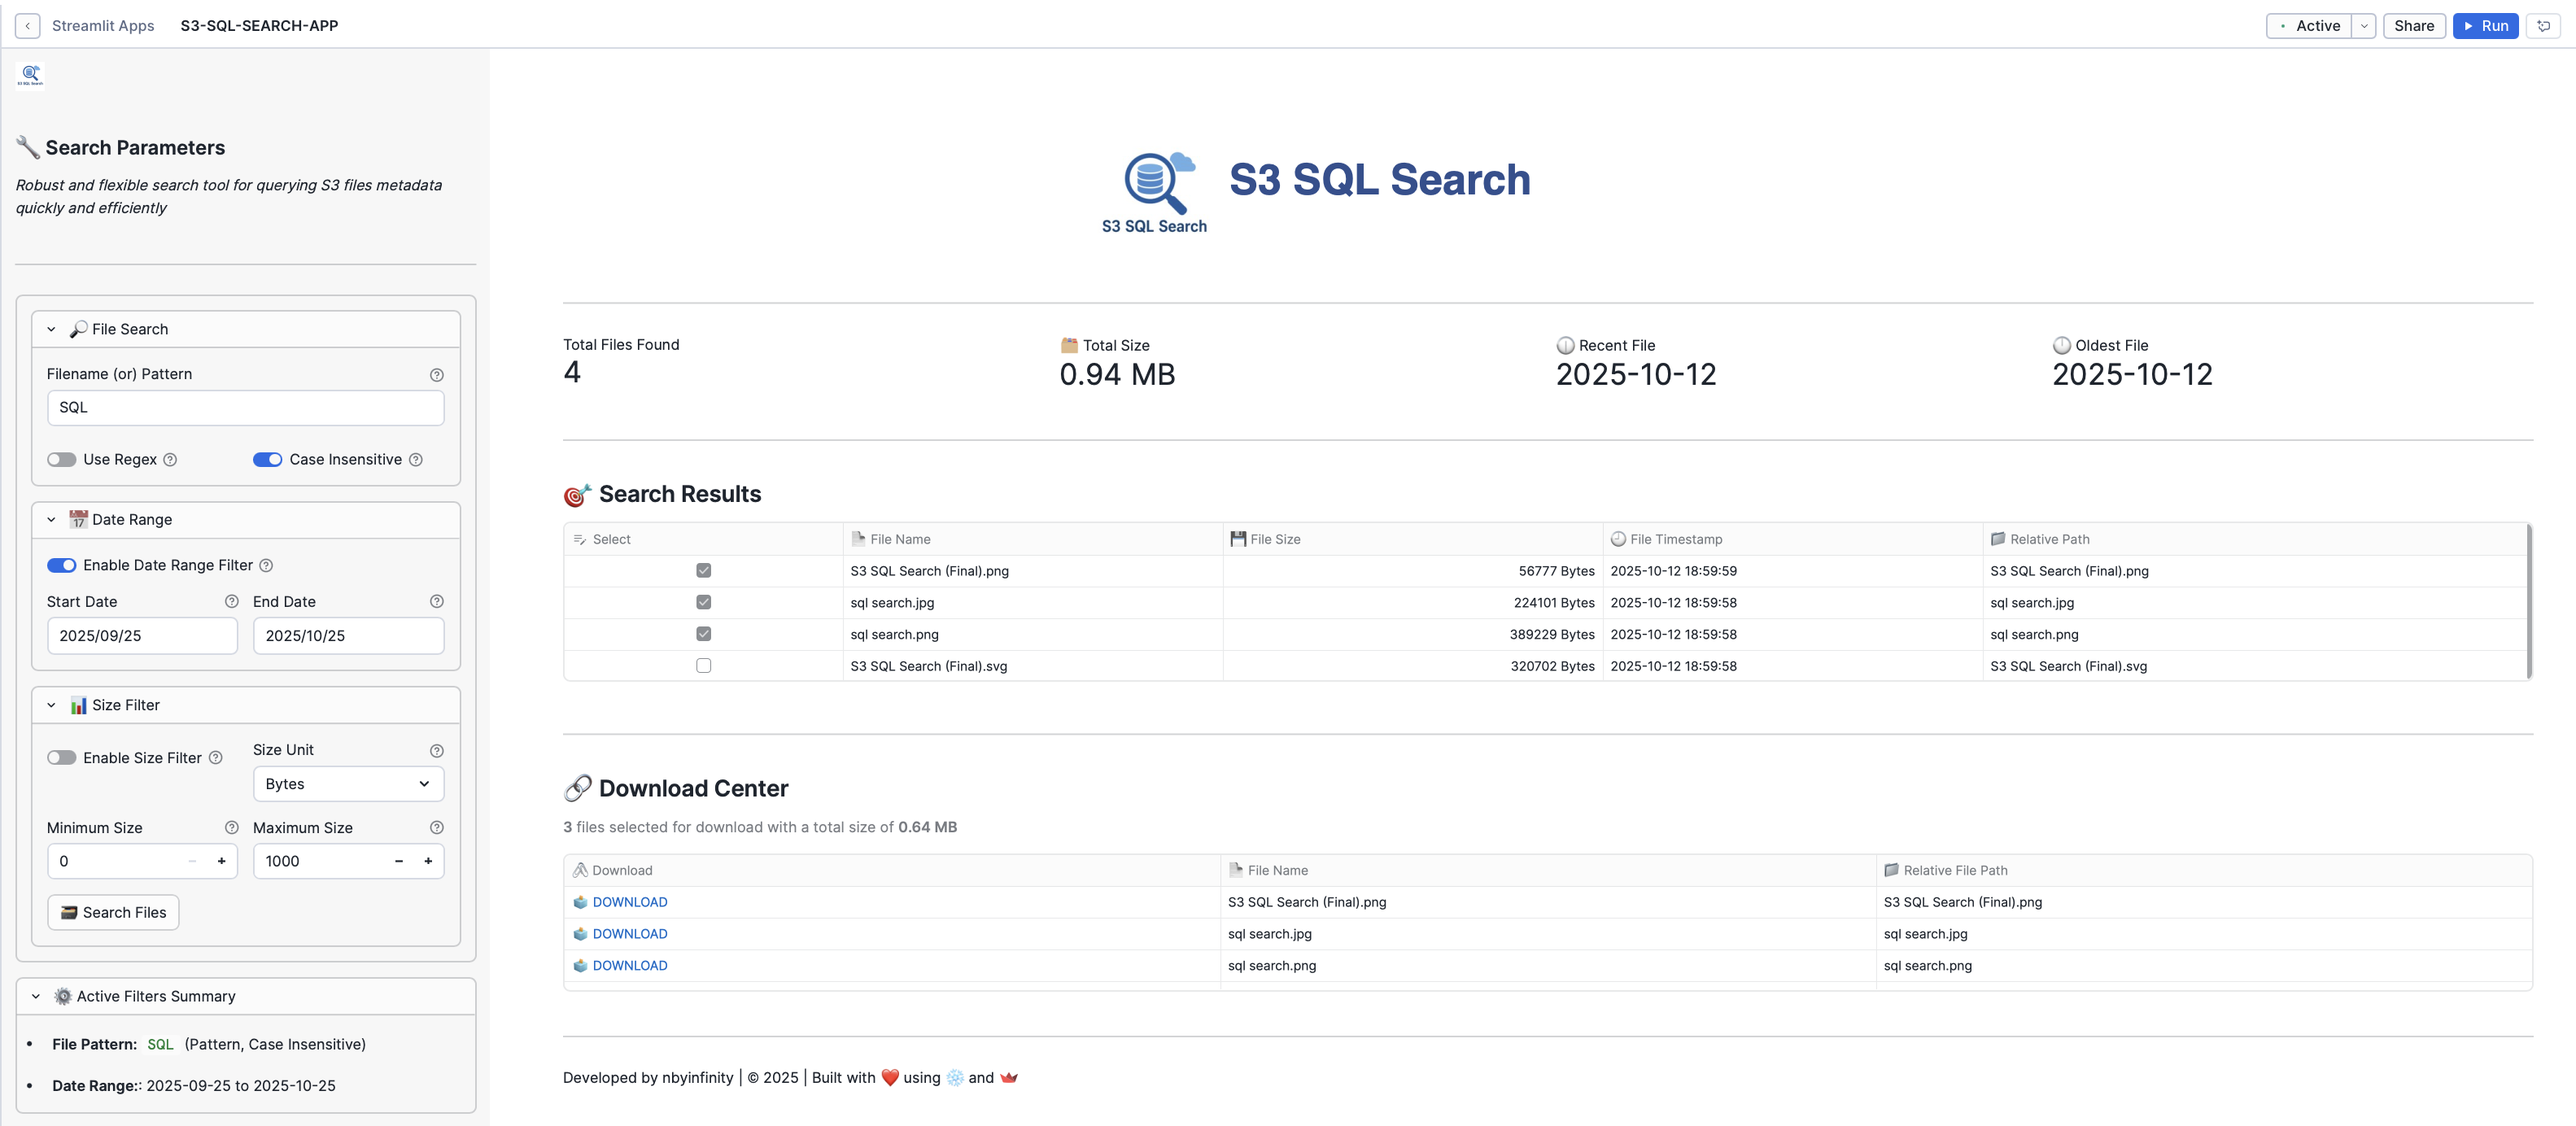
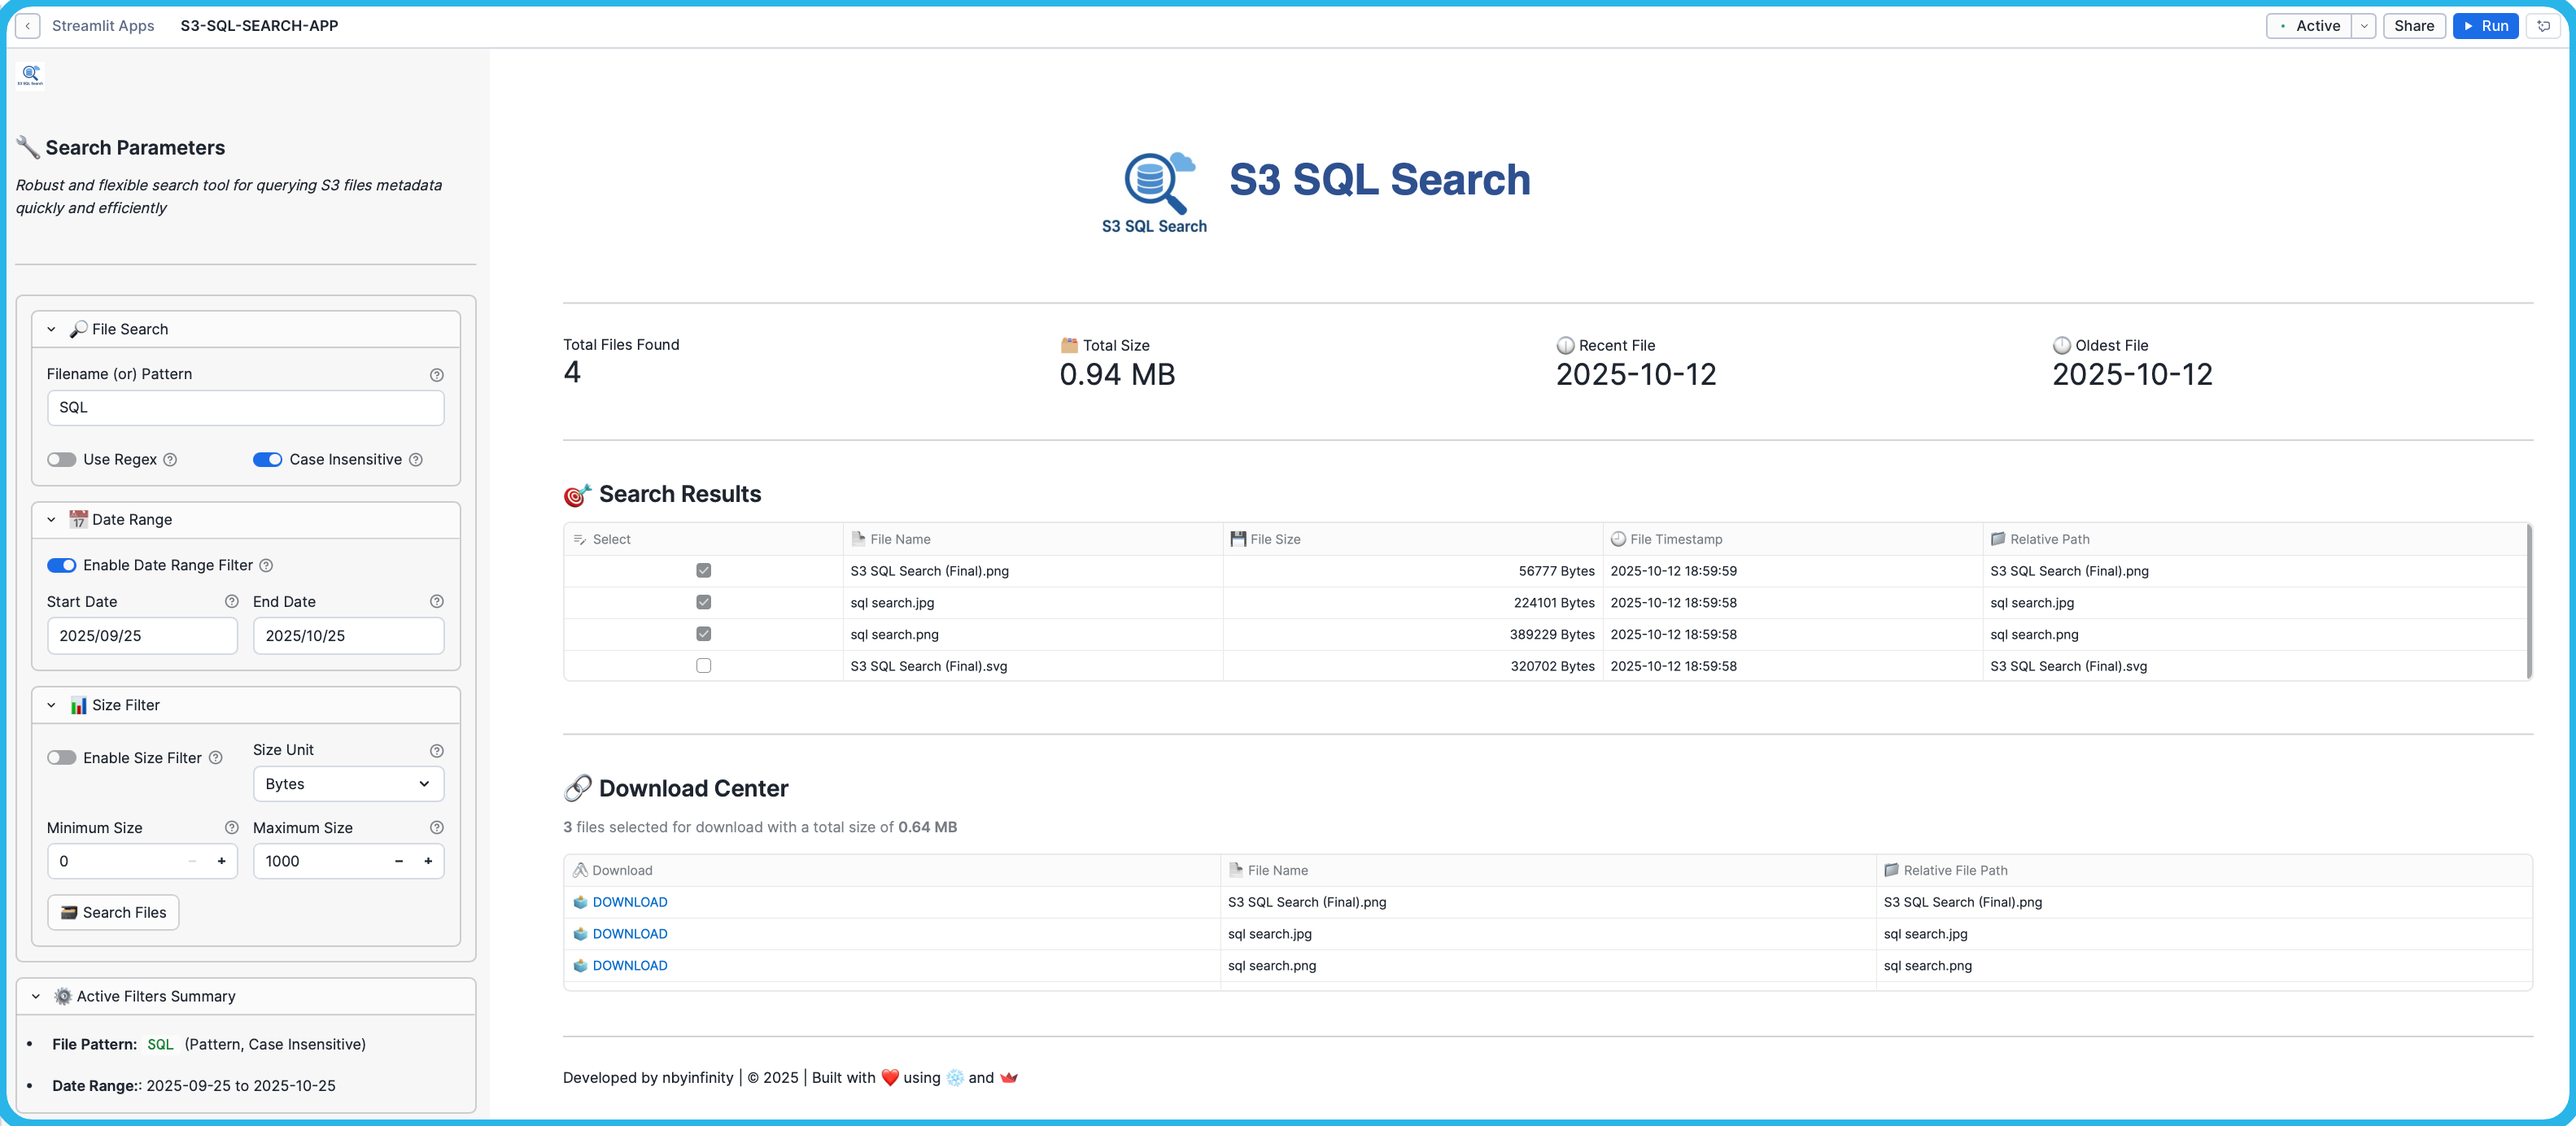
Updated screenshot with border

Changed region(s): [[0.0, 0.0, 1.0, 1.0], [0.0, 0.4971, 0.031, 0.5282]]

diff --git a/README.md b/README.md
@@ -180,7 +180,7 @@ Build an event-driven pipeline using directory tables, streams, and tasks to aut
 
 Deploy the Streamlit web application within Snowflake to provide an intuitive search interface with advanced filtering, real-time metrics, and secure file downloads via pre-signed URLs.
 
-<img src="docs/images/s3-sql-search-streamlitapp.png" width="900" style="border:3px solid #29B5E8; box-shadow:0 4px 12px rgba(41, 181, 232, 0.3);" />
+![S3 SQL Search Streamlit Application](docs/images/s3-sql-search-streamlitapp.png)
 
 *The S3 SQL Search Streamlit application provides an intuitive interface with advanced search filters, real-time results, and secure file downloads.*
 
